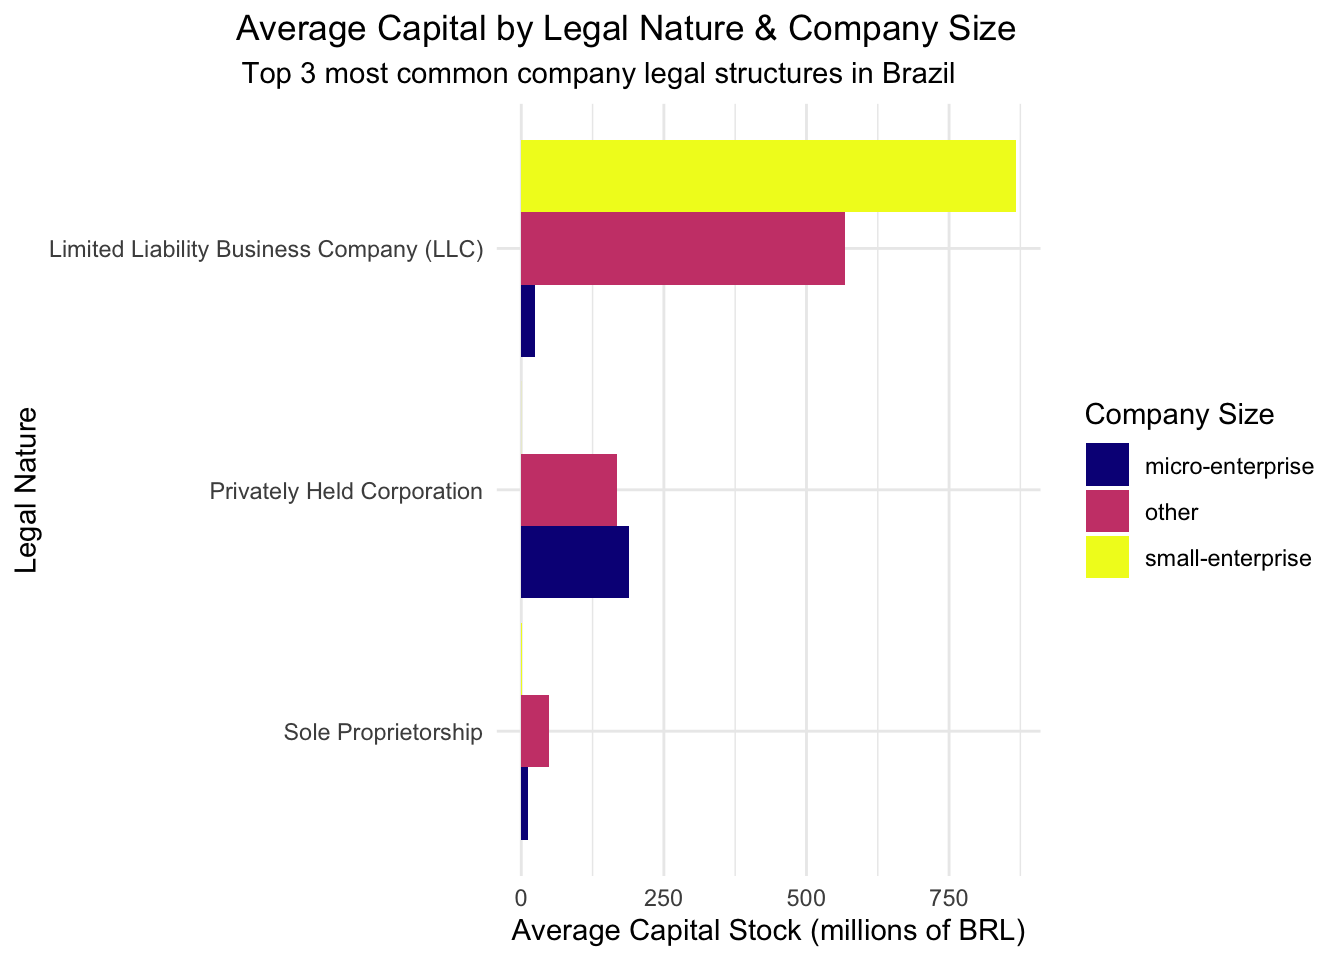
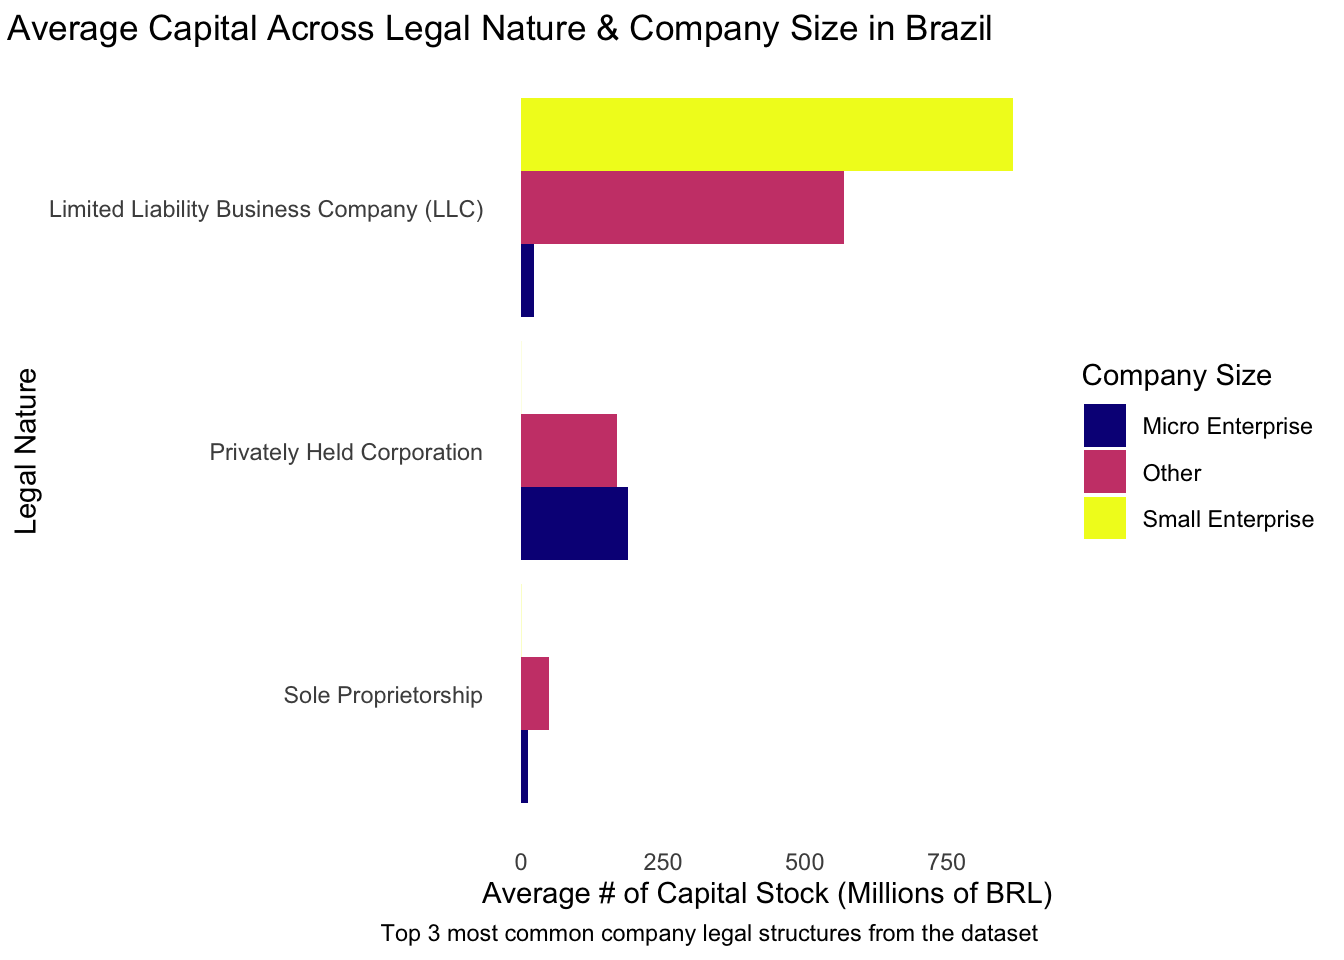
Built site for gh-pages

diff --git a/homework-yeshedj/hw01/src/hw1-tt.html b/homework-yeshedj/hw01/src/hw1-tt.html
@@ -514,21 +514,25 @@ cookieconsent.run({
 <span id="cb2-9"><a href="#cb2-9"></a>  <span class="fu">summarise</span>(<span class="at">avg_capital =</span> <span class="fu">mean</span>(capital_millions, <span class="at">na.rm =</span> <span class="cn">TRUE</span>), <span class="at">.groups =</span> <span class="st">"drop"</span>) <span class="sc">%&gt;%</span></span>
 <span id="cb2-10"><a href="#cb2-10"></a>  <span class="fu">ggplot</span>(<span class="fu">aes</span>(<span class="at">x =</span> <span class="fu">reorder</span>(legal_nature, avg_capital), <span class="at">y =</span> avg_capital, <span class="at">fill =</span> company_size)) <span class="sc">+</span></span>
 <span id="cb2-11"><a href="#cb2-11"></a>  <span class="fu">geom_col</span>(<span class="at">position =</span> <span class="st">"dodge"</span>) <span class="sc">+</span></span>
-<span id="cb2-12"><a href="#cb2-12"></a>  <span class="fu">scale_fill_viridis_d</span>(<span class="at">option =</span> <span class="st">"plasma"</span>) <span class="sc">+</span></span>
-<span id="cb2-13"><a href="#cb2-13"></a>  <span class="fu">coord_flip</span>() <span class="sc">+</span></span>
-<span id="cb2-14"><a href="#cb2-14"></a>  <span class="fu">labs</span>(</span>
-<span id="cb2-15"><a href="#cb2-15"></a>    <span class="at">title =</span> <span class="st">"Average Capital by Legal Nature &amp; Company Size"</span>,</span>
-<span id="cb2-16"><a href="#cb2-16"></a>    <span class="at">subtitle =</span> <span class="st">"Top 3 most common company legal structures in Brazil"</span>,</span>
-<span id="cb2-17"><a href="#cb2-17"></a>    <span class="at">x =</span> <span class="st">"Legal Nature"</span>,</span>
-<span id="cb2-18"><a href="#cb2-18"></a>    <span class="at">y =</span> <span class="st">"Average Capital Stock (millions of BRL)"</span>,</span>
-<span id="cb2-19"><a href="#cb2-19"></a>    <span class="at">fill =</span> <span class="st">"Company Size"</span></span>
-<span id="cb2-20"><a href="#cb2-20"></a>  ) <span class="sc">+</span></span>
-<span id="cb2-21"><a href="#cb2-21"></a>  <span class="fu">theme_minimal</span>() <span class="sc">+</span></span>
-<span id="cb2-22"><a href="#cb2-22"></a>   <span class="fu">theme</span>(</span>
-<span id="cb2-23"><a href="#cb2-23"></a>    <span class="at">legend.position =</span> <span class="st">"right"</span>,</span>
-<span id="cb2-24"><a href="#cb2-24"></a>    <span class="at">plot.title =</span> <span class="fu">element_text</span>(<span class="at">hjust =</span> <span class="fl">1.1</span>),</span>
-<span id="cb2-25"><a href="#cb2-25"></a>    <span class="at">plot.subtitle =</span> <span class="fu">element_text</span>(<span class="at">hjust =</span> <span class="fl">1.5</span>)</span>
-<span id="cb2-26"><a href="#cb2-26"></a>  )</span></code></pre></div><button title="Copy to Clipboard" class="code-copy-button"><i class="bi"></i></button></div>
+<span id="cb2-12"><a href="#cb2-12"></a>  <span class="fu">scale_fill_viridis_d</span>(</span>
+<span id="cb2-13"><a href="#cb2-13"></a>    <span class="at">option =</span> <span class="st">"plasma"</span>,</span>
+<span id="cb2-14"><a href="#cb2-14"></a>    <span class="at">labels =</span> <span class="fu">c</span>(<span class="st">"Micro Enterprise"</span>, <span class="st">"Other"</span>, <span class="st">"Small Enterprise"</span>)</span>
+<span id="cb2-15"><a href="#cb2-15"></a>) <span class="sc">+</span></span>
+<span id="cb2-16"><a href="#cb2-16"></a>  <span class="fu">coord_flip</span>() <span class="sc">+</span></span>
+<span id="cb2-17"><a href="#cb2-17"></a>  <span class="fu">labs</span>(</span>
+<span id="cb2-18"><a href="#cb2-18"></a>    <span class="at">title =</span> <span class="st">"Average Capital Across Legal Nature &amp; Company Size in Brazil"</span>,</span>
+<span id="cb2-19"><a href="#cb2-19"></a>    <span class="at">caption =</span> <span class="st">"Top 3 most common company legal structures from the dataset"</span>,</span>
+<span id="cb2-20"><a href="#cb2-20"></a>    <span class="at">x =</span> <span class="st">"Legal Nature"</span>,</span>
+<span id="cb2-21"><a href="#cb2-21"></a>    <span class="at">y =</span> <span class="st">"Average # of Capital Stock (Millions of BRL)"</span>,</span>
+<span id="cb2-22"><a href="#cb2-22"></a>    <span class="at">fill =</span> <span class="st">"Company Size"</span></span>
+<span id="cb2-23"><a href="#cb2-23"></a>  ) <span class="sc">+</span></span>
+<span id="cb2-24"><a href="#cb2-24"></a>  <span class="fu">theme_minimal</span>() <span class="sc">+</span></span>
+<span id="cb2-25"><a href="#cb2-25"></a>   <span class="fu">theme</span>(</span>
+<span id="cb2-26"><a href="#cb2-26"></a>    <span class="at">legend.position =</span> <span class="st">"right"</span>,</span>
+<span id="cb2-27"><a href="#cb2-27"></a>    <span class="at">plot.title =</span> <span class="fu">element_text</span>(<span class="at">hjust =</span> <span class="fl">1.1</span>),</span>
+<span id="cb2-28"><a href="#cb2-28"></a>    <span class="at">plot.subtitle =</span> <span class="fu">element_text</span>(<span class="at">hjust =</span> <span class="fl">1.5</span>),</span>
+<span id="cb2-29"><a href="#cb2-29"></a>    <span class="at">panel.grid =</span> <span class="fu">element_blank</span>()</span>
+<span id="cb2-30"><a href="#cb2-30"></a>  )</span></code></pre></div><button title="Copy to Clipboard" class="code-copy-button"><i class="bi"></i></button></div>
 </details><div class="cell-output-display">
 <div>
 <figure class="figure"><p><img src="hw1-tt_files/figure-html/unnamed-chunk-2-1.png" class="img-fluid figure-img" width="672"></p>
@@ -1030,57 +1034,63 @@ cookieconsent.run({
 <span id="cb3-5"><a href="#cb3-5"></a><span class="co">---</span></span>
 <span id="cb3-6"><a href="#cb3-6"></a></span>
 <span id="cb3-7"><a href="#cb3-7"></a><span class="fu">## Introduction</span></span>
-<span id="cb3-8"><a href="#cb3-8"></a>Brazilian companies work under different legal natures/structures (e.g., “Limited Liability Business Company (LLC)”, and are classified into size categories ranging from micro-enterprises to large enterprises. For this Tidy Tuesday analysis, we explore how capital levels vary across both the legal structure and company sizes.</span>
-<span id="cb3-9"><a href="#cb3-9"></a></span>
-<span id="cb3-12"><a href="#cb3-12"></a><span class="in">```{r}</span></span>
-<span id="cb3-13"><a href="#cb3-13"></a><span class="fu">options</span>(<span class="at">repos =</span> <span class="fu">c</span>(<span class="at">CRAN =</span> <span class="st">"https://cloud.r-project.org"</span>))</span>
-<span id="cb3-14"><a href="#cb3-14"></a></span>
-<span id="cb3-15"><a href="#cb3-15"></a><span class="fu">library</span>(tidyverse)</span>
-<span id="cb3-16"><a href="#cb3-16"></a></span>
-<span id="cb3-17"><a href="#cb3-17"></a>companies <span class="ot">&lt;-</span> <span class="fu">read_csv</span>(</span>
-<span id="cb3-18"><a href="#cb3-18"></a>  <span class="st">"https://raw.githubusercontent.com/rfordatascience/tidytuesday/main/data/2026/2026-01-27/companies.csv"</span>,</span>
-<span id="cb3-19"><a href="#cb3-19"></a>  <span class="at">show_col_types =</span> <span class="cn">FALSE</span></span>
-<span id="cb3-20"><a href="#cb3-20"></a>) <span class="sc">%&gt;%</span></span>
-<span id="cb3-21"><a href="#cb3-21"></a>  <span class="fu">mutate</span>(<span class="at">capital_millions =</span> capital_stock <span class="sc">/</span> <span class="fl">1e6</span>)</span>
-<span id="cb3-22"><a href="#cb3-22"></a><span class="in">```</span></span>
-<span id="cb3-23"><a href="#cb3-23"></a></span>
+<span id="cb3-8"><a href="#cb3-8"></a></span>
+<span id="cb3-9"><a href="#cb3-9"></a>Brazilian companies work under different legal natures/structures (e.g., “Limited Liability Business Company (LLC)”, and are classified into size categories ranging from micro-enterprises to large enterprises. For this Tidy Tuesday analysis, we explore how capital levels vary across both the legal structure and company sizes.</span>
+<span id="cb3-10"><a href="#cb3-10"></a></span>
+<span id="cb3-13"><a href="#cb3-13"></a><span class="in">```{r}</span></span>
+<span id="cb3-14"><a href="#cb3-14"></a><span class="fu">options</span>(<span class="at">repos =</span> <span class="fu">c</span>(<span class="at">CRAN =</span> <span class="st">"https://cloud.r-project.org"</span>))</span>
+<span id="cb3-15"><a href="#cb3-15"></a></span>
+<span id="cb3-16"><a href="#cb3-16"></a><span class="fu">library</span>(tidyverse)</span>
+<span id="cb3-17"><a href="#cb3-17"></a></span>
+<span id="cb3-18"><a href="#cb3-18"></a>companies <span class="ot">&lt;-</span> <span class="fu">read_csv</span>(</span>
+<span id="cb3-19"><a href="#cb3-19"></a>  <span class="st">"https://raw.githubusercontent.com/rfordatascience/tidytuesday/main/data/2026/2026-01-27/companies.csv"</span>,</span>
+<span id="cb3-20"><a href="#cb3-20"></a>  <span class="at">show_col_types =</span> <span class="cn">FALSE</span></span>
+<span id="cb3-21"><a href="#cb3-21"></a>) <span class="sc">%&gt;%</span></span>
+<span id="cb3-22"><a href="#cb3-22"></a>  <span class="fu">mutate</span>(<span class="at">capital_millions =</span> capital_stock <span class="sc">/</span> <span class="fl">1e6</span>)</span>
+<span id="cb3-23"><a href="#cb3-23"></a><span class="in">```</span></span>
 <span id="cb3-24"><a href="#cb3-24"></a></span>
 <span id="cb3-25"><a href="#cb3-25"></a><span class="fu">## Average Capital by Legal Structure</span></span>
-<span id="cb3-28"><a href="#cb3-28"></a><span class="in">```{r}</span></span>
-<span id="cb3-29"><a href="#cb3-29"></a>top_legal <span class="ot">&lt;-</span> companies <span class="sc">%&gt;%</span></span>
-<span id="cb3-30"><a href="#cb3-30"></a>  <span class="fu">count</span>(legal_nature, <span class="at">sort =</span> <span class="cn">TRUE</span>) <span class="sc">%&gt;%</span></span>
-<span id="cb3-31"><a href="#cb3-31"></a>  <span class="fu">head</span>(<span class="dv">3</span>) <span class="sc">%&gt;%</span></span>
-<span id="cb3-32"><a href="#cb3-32"></a>  <span class="fu">pull</span>(legal_nature)</span>
-<span id="cb3-33"><a href="#cb3-33"></a></span>
-<span id="cb3-34"><a href="#cb3-34"></a>companies <span class="sc">%&gt;%</span></span>
-<span id="cb3-35"><a href="#cb3-35"></a>  <span class="fu">filter</span>(legal_nature <span class="sc">%in%</span> top_legal) <span class="sc">%&gt;%</span></span>
-<span id="cb3-36"><a href="#cb3-36"></a>  <span class="fu">group_by</span>(legal_nature, company_size) <span class="sc">%&gt;%</span></span>
-<span id="cb3-37"><a href="#cb3-37"></a>  <span class="fu">summarise</span>(<span class="at">avg_capital =</span> <span class="fu">mean</span>(capital_millions, <span class="at">na.rm =</span> <span class="cn">TRUE</span>), <span class="at">.groups =</span> <span class="st">"drop"</span>) <span class="sc">%&gt;%</span></span>
-<span id="cb3-38"><a href="#cb3-38"></a>  <span class="fu">ggplot</span>(<span class="fu">aes</span>(<span class="at">x =</span> <span class="fu">reorder</span>(legal_nature, avg_capital), <span class="at">y =</span> avg_capital, <span class="at">fill =</span> company_size)) <span class="sc">+</span></span>
-<span id="cb3-39"><a href="#cb3-39"></a>  <span class="fu">geom_col</span>(<span class="at">position =</span> <span class="st">"dodge"</span>) <span class="sc">+</span></span>
-<span id="cb3-40"><a href="#cb3-40"></a>  <span class="fu">scale_fill_viridis_d</span>(<span class="at">option =</span> <span class="st">"plasma"</span>) <span class="sc">+</span></span>
-<span id="cb3-41"><a href="#cb3-41"></a>  <span class="fu">coord_flip</span>() <span class="sc">+</span></span>
-<span id="cb3-42"><a href="#cb3-42"></a>  <span class="fu">labs</span>(</span>
-<span id="cb3-43"><a href="#cb3-43"></a>    <span class="at">title =</span> <span class="st">"Average Capital by Legal Nature &amp; Company Size"</span>,</span>
-<span id="cb3-44"><a href="#cb3-44"></a>    <span class="at">subtitle =</span> <span class="st">"Top 3 most common company legal structures in Brazil"</span>,</span>
-<span id="cb3-45"><a href="#cb3-45"></a>    <span class="at">x =</span> <span class="st">"Legal Nature"</span>,</span>
-<span id="cb3-46"><a href="#cb3-46"></a>    <span class="at">y =</span> <span class="st">"Average Capital Stock (millions of BRL)"</span>,</span>
-<span id="cb3-47"><a href="#cb3-47"></a>    <span class="at">fill =</span> <span class="st">"Company Size"</span></span>
-<span id="cb3-48"><a href="#cb3-48"></a>  ) <span class="sc">+</span></span>
-<span id="cb3-49"><a href="#cb3-49"></a>  <span class="fu">theme_minimal</span>() <span class="sc">+</span></span>
-<span id="cb3-50"><a href="#cb3-50"></a>   <span class="fu">theme</span>(</span>
-<span id="cb3-51"><a href="#cb3-51"></a>    <span class="at">legend.position =</span> <span class="st">"right"</span>,</span>
-<span id="cb3-52"><a href="#cb3-52"></a>    <span class="at">plot.title =</span> <span class="fu">element_text</span>(<span class="at">hjust =</span> <span class="fl">1.1</span>),</span>
-<span id="cb3-53"><a href="#cb3-53"></a>    <span class="at">plot.subtitle =</span> <span class="fu">element_text</span>(<span class="at">hjust =</span> <span class="fl">1.5</span>)</span>
-<span id="cb3-54"><a href="#cb3-54"></a>  )</span>
-<span id="cb3-55"><a href="#cb3-55"></a><span class="in">```</span></span>
-<span id="cb3-56"><a href="#cb3-56"></a></span>
-<span id="cb3-57"><a href="#cb3-57"></a></span>
-<span id="cb3-58"><a href="#cb3-58"></a><span class="fu">## Results</span></span>
-<span id="cb3-59"><a href="#cb3-59"></a>The grouped bar chart shows us how capital levels vary across both legal nature and company size. Within each of the legal natures, we see distinct differences between the size categories, with larger enterprises generally holding more capital than micro or smaller enterprises. We also see that certain legal structures are more common for specific sized categories, and that the relationship between size and capital differs a bit by its legal structure.</span>
-<span id="cb3-60"><a href="#cb3-60"></a></span>
-<span id="cb3-61"><a href="#cb3-61"></a><span class="fu">## Conclusion</span></span>
-<span id="cb3-62"><a href="#cb3-62"></a>This analysis reveals that both the legal nature and the company size are associated with different capital levels among Brazilian companies. Based on the way these two factors interacted, we can understand that business capital in Brazil has to consider multiple different factors of how the companies are organized and classified. These patterns can help policymakers and investors better interpret business classifications and make more informed decisions.</span>
+<span id="cb3-26"><a href="#cb3-26"></a></span>
+<span id="cb3-29"><a href="#cb3-29"></a><span class="in">```{r}</span></span>
+<span id="cb3-30"><a href="#cb3-30"></a>top_legal <span class="ot">&lt;-</span> companies <span class="sc">%&gt;%</span></span>
+<span id="cb3-31"><a href="#cb3-31"></a>  <span class="fu">count</span>(legal_nature, <span class="at">sort =</span> <span class="cn">TRUE</span>) <span class="sc">%&gt;%</span></span>
+<span id="cb3-32"><a href="#cb3-32"></a>  <span class="fu">head</span>(<span class="dv">3</span>) <span class="sc">%&gt;%</span></span>
+<span id="cb3-33"><a href="#cb3-33"></a>  <span class="fu">pull</span>(legal_nature)</span>
+<span id="cb3-34"><a href="#cb3-34"></a></span>
+<span id="cb3-35"><a href="#cb3-35"></a>companies <span class="sc">%&gt;%</span></span>
+<span id="cb3-36"><a href="#cb3-36"></a>  <span class="fu">filter</span>(legal_nature <span class="sc">%in%</span> top_legal) <span class="sc">%&gt;%</span></span>
+<span id="cb3-37"><a href="#cb3-37"></a>  <span class="fu">group_by</span>(legal_nature, company_size) <span class="sc">%&gt;%</span></span>
+<span id="cb3-38"><a href="#cb3-38"></a>  <span class="fu">summarise</span>(<span class="at">avg_capital =</span> <span class="fu">mean</span>(capital_millions, <span class="at">na.rm =</span> <span class="cn">TRUE</span>), <span class="at">.groups =</span> <span class="st">"drop"</span>) <span class="sc">%&gt;%</span></span>
+<span id="cb3-39"><a href="#cb3-39"></a>  <span class="fu">ggplot</span>(<span class="fu">aes</span>(<span class="at">x =</span> <span class="fu">reorder</span>(legal_nature, avg_capital), <span class="at">y =</span> avg_capital, <span class="at">fill =</span> company_size)) <span class="sc">+</span></span>
+<span id="cb3-40"><a href="#cb3-40"></a>  <span class="fu">geom_col</span>(<span class="at">position =</span> <span class="st">"dodge"</span>) <span class="sc">+</span></span>
+<span id="cb3-41"><a href="#cb3-41"></a>  <span class="fu">scale_fill_viridis_d</span>(</span>
+<span id="cb3-42"><a href="#cb3-42"></a>    <span class="at">option =</span> <span class="st">"plasma"</span>,</span>
+<span id="cb3-43"><a href="#cb3-43"></a>    <span class="at">labels =</span> <span class="fu">c</span>(<span class="st">"Micro Enterprise"</span>, <span class="st">"Other"</span>, <span class="st">"Small Enterprise"</span>)</span>
+<span id="cb3-44"><a href="#cb3-44"></a>) <span class="sc">+</span></span>
+<span id="cb3-45"><a href="#cb3-45"></a>  <span class="fu">coord_flip</span>() <span class="sc">+</span></span>
+<span id="cb3-46"><a href="#cb3-46"></a>  <span class="fu">labs</span>(</span>
+<span id="cb3-47"><a href="#cb3-47"></a>    <span class="at">title =</span> <span class="st">"Average Capital Across Legal Nature &amp; Company Size in Brazil"</span>,</span>
+<span id="cb3-48"><a href="#cb3-48"></a>    <span class="at">caption =</span> <span class="st">"Top 3 most common company legal structures from the dataset"</span>,</span>
+<span id="cb3-49"><a href="#cb3-49"></a>    <span class="at">x =</span> <span class="st">"Legal Nature"</span>,</span>
+<span id="cb3-50"><a href="#cb3-50"></a>    <span class="at">y =</span> <span class="st">"Average # of Capital Stock (Millions of BRL)"</span>,</span>
+<span id="cb3-51"><a href="#cb3-51"></a>    <span class="at">fill =</span> <span class="st">"Company Size"</span></span>
+<span id="cb3-52"><a href="#cb3-52"></a>  ) <span class="sc">+</span></span>
+<span id="cb3-53"><a href="#cb3-53"></a>  <span class="fu">theme_minimal</span>() <span class="sc">+</span></span>
+<span id="cb3-54"><a href="#cb3-54"></a>   <span class="fu">theme</span>(</span>
+<span id="cb3-55"><a href="#cb3-55"></a>    <span class="at">legend.position =</span> <span class="st">"right"</span>,</span>
+<span id="cb3-56"><a href="#cb3-56"></a>    <span class="at">plot.title =</span> <span class="fu">element_text</span>(<span class="at">hjust =</span> <span class="fl">1.1</span>),</span>
+<span id="cb3-57"><a href="#cb3-57"></a>    <span class="at">plot.subtitle =</span> <span class="fu">element_text</span>(<span class="at">hjust =</span> <span class="fl">1.5</span>),</span>
+<span id="cb3-58"><a href="#cb3-58"></a>    <span class="at">panel.grid =</span> <span class="fu">element_blank</span>()</span>
+<span id="cb3-59"><a href="#cb3-59"></a>  )</span>
+<span id="cb3-60"><a href="#cb3-60"></a><span class="in">```</span></span>
+<span id="cb3-61"><a href="#cb3-61"></a></span>
+<span id="cb3-62"><a href="#cb3-62"></a><span class="fu">## Results</span></span>
+<span id="cb3-63"><a href="#cb3-63"></a></span>
+<span id="cb3-64"><a href="#cb3-64"></a>The grouped bar chart shows us how capital levels vary across both legal nature and company size. Within each of the legal natures, we see distinct differences between the size categories, with larger enterprises generally holding more capital than micro or smaller enterprises. We also see that certain legal structures are more common for specific sized categories, and that the relationship between size and capital differs a bit by its legal structure.</span>
+<span id="cb3-65"><a href="#cb3-65"></a></span>
+<span id="cb3-66"><a href="#cb3-66"></a><span class="fu">## Conclusion</span></span>
+<span id="cb3-67"><a href="#cb3-67"></a></span>
+<span id="cb3-68"><a href="#cb3-68"></a>This analysis reveals that both the legal nature and the company size are associated with different capital levels among Brazilian companies. Based on the way these two factors interacted, we can understand that business capital in Brazil has to consider multiple different factors of how the companies are organized and classified. These patterns can help policymakers and investors better interpret business classifications and make more informed decisions.</span>
 </code></pre></div><button title="Copy to Clipboard" class="code-copy-button" data-in-quarto-modal=""><i class="bi"></i></button></div>
 </div></div></div></div></div>
 </div> <!-- /content -->

diff --git a/index.html b/index.html
@@ -471,7 +471,7 @@ cookieconsent.run({
     <div>
     <div class="quarto-title-meta-heading">Published</div>
     <div class="quarto-title-meta-contents">
-      <p class="date">Tuesday, February 10, 2026</p>
+      <p class="date">Wednesday, February 18, 2026</p>
     </div>
   </div>
   
@@ -483,8 +483,8 @@ cookieconsent.run({
 </header><p>Welcome to my online portfolio for COMP/STAT112 course taken at <a href="https://www.macalester.edu/">Macalester College</a>. Please, use the side bar on the left for navigation.</p>
 <div class="cell">
 <div class="cell-output-display">
-<div class="wordcloud2 html-widget html-fill-item" id="htmlwidget-dadd05c0e86b21dc03e8" style="width:100%;height:464px;"></div>
-<script type="application/json" data-for="htmlwidget-dadd05c0e86b21dc03e8">{"x":{"word":["welcome","to","comp","stat","212","mac","st paul"],"freq":[10,2,8,8,8,6,6],"fontFamily":"Segoe UI","fontWeight":"bold","color":"random-dark","minSize":0,"weightFactor":18,"backgroundColor":"white","gridSize":0,"minRotation":-0.7853981633974483,"maxRotation":0.7853981633974483,"shuffle":true,"rotateRatio":0.4,"shape":"cardioid","ellipticity":0.65,"figBase64":null,"hover":null},"evals":[],"jsHooks":{"render":[{"code":"function(el,x){\n                        console.log(123);\n                        if(!iii){\n                          window.location.reload();\n                          iii = False;\n\n                        }\n  }","data":null}]}}</script>
+<div class="wordcloud2 html-widget html-fill-item" id="htmlwidget-22eabc7466f9452a4a22" style="width:100%;height:464px;"></div>
+<script type="application/json" data-for="htmlwidget-22eabc7466f9452a4a22">{"x":{"word":["welcome","to","comp","stat","212","mac","st paul"],"freq":[10,2,8,8,8,6,6],"fontFamily":"Segoe UI","fontWeight":"bold","color":"random-dark","minSize":0,"weightFactor":18,"backgroundColor":"white","gridSize":0,"minRotation":-0.7853981633974483,"maxRotation":0.7853981633974483,"shuffle":true,"rotateRatio":0.4,"shape":"cardioid","ellipticity":0.65,"figBase64":null,"hover":null},"evals":[],"jsHooks":{"render":[{"code":"function(el,x){\n                        console.log(123);\n                        if(!iii){\n                          window.location.reload();\n                          iii = False;\n\n                        }\n  }","data":null}]}}</script>
 </div>
 </div>
 

diff --git a/404.html b/404.html
@@ -7,7 +7,7 @@
 <meta name="viewport" content="width=device-width, initial-scale=1.0, user-scalable=yes">
 
 
-<title>quarto-input190b43861d8bdc2a – COMP/STAT212 Portfolio</title>
+<title>quarto-input3117ef8fc0e1cd51 – COMP/STAT212 Portfolio</title>
 <style>
 code{white-space: pre-wrap;}
 span.smallcaps{font-variant: small-caps;}
